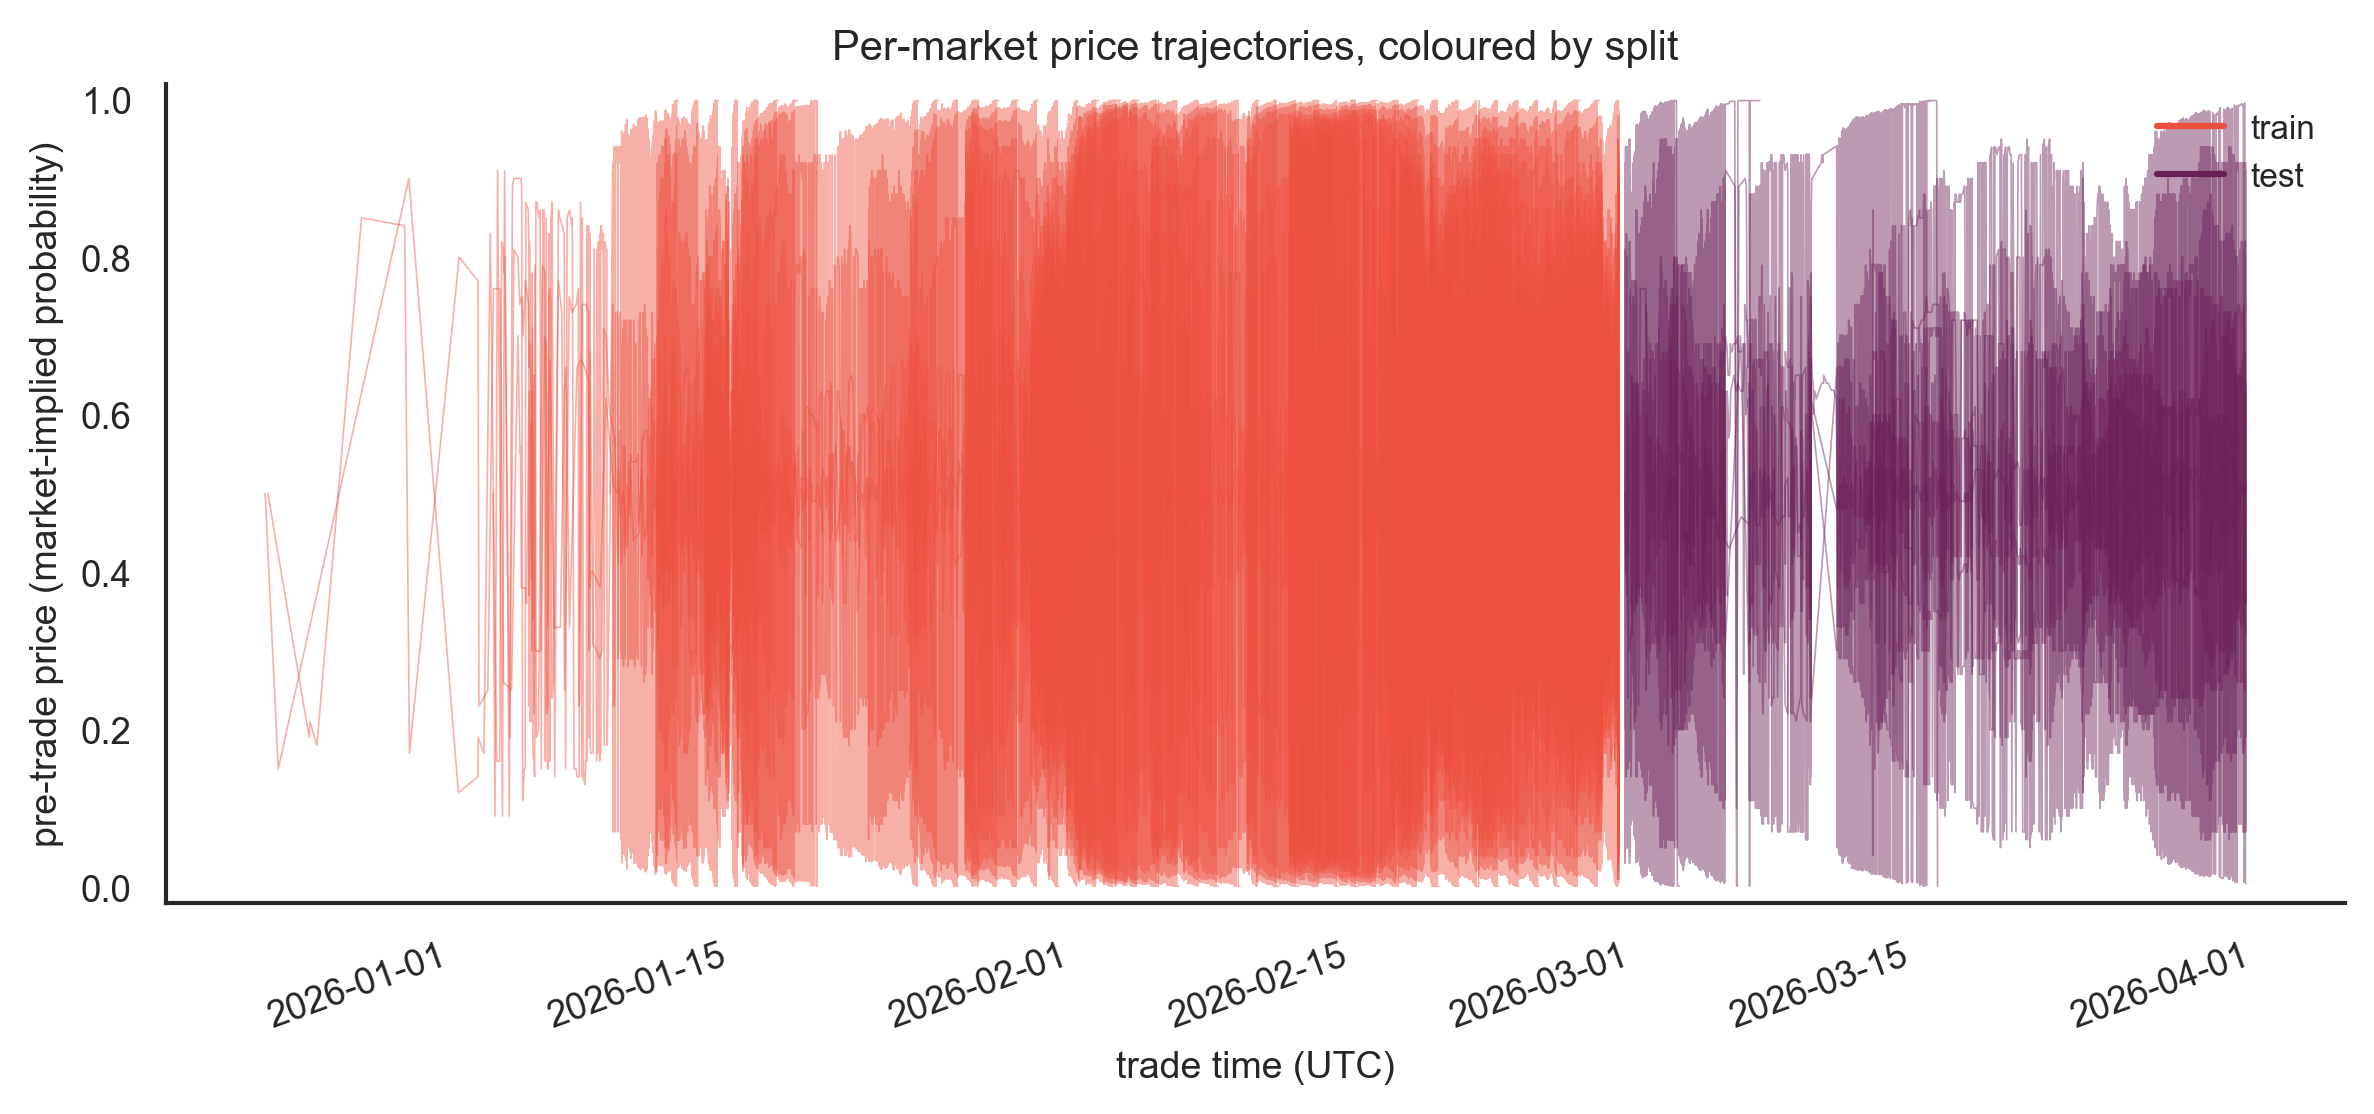
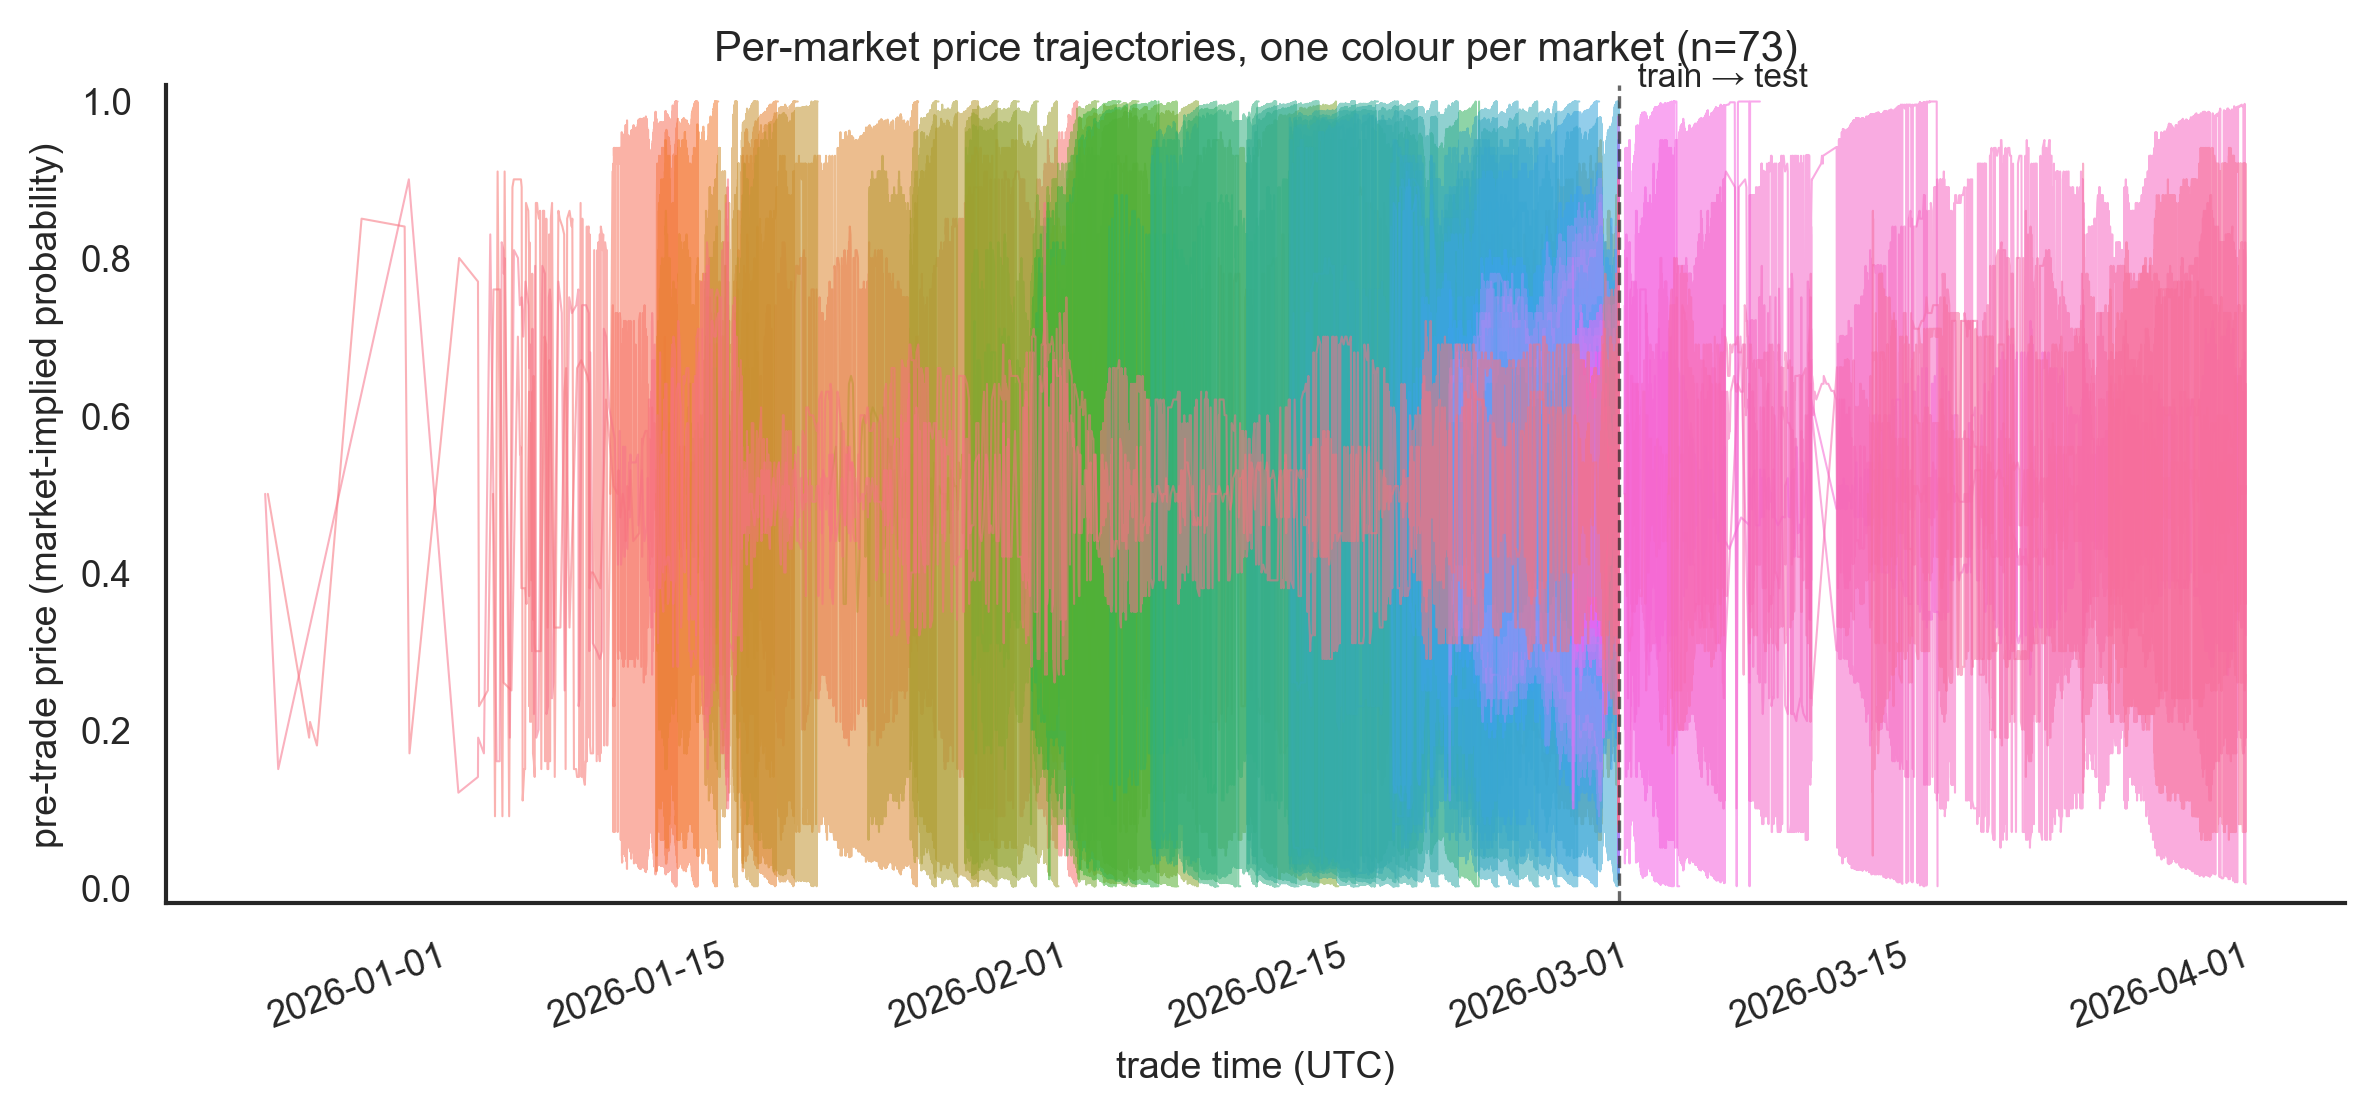
commit

diff --git a/ML/report/scripts/eda.py b/ML/report/scripts/eda.py
@@ -99,34 +99,32 @@ def load_joined() -> pd.DataFrame:
     # cohort parquets in `data/archive/alex/` still carry it (column `taker`).
     # Lift it over by row order: the consolidated splits preserve the same
     # ordering as the raw archives, with row counts matching exactly.
-    train_taker = pd.read_parquet(
-        DATA_DIR / "archive" / "alex" / "train.parquet", columns=["taker"]
+    cols = ["taker", "usd_amount"]
+    train_raw = pd.read_parquet(
+        DATA_DIR / "archive" / "alex" / "train.parquet", columns=cols
     )
-    test_taker = pd.read_parquet(
-        DATA_DIR / "archive" / "alex" / "test.parquet", columns=["taker"]
+    test_raw = pd.read_parquet(
+        DATA_DIR / "archive" / "alex" / "test.parquet", columns=cols
     )
     n_train = (df[SPLIT] == "train").sum()
     n_test = (df[SPLIT] == "test").sum()
-    if len(train_taker) == n_train and len(test_taker) == n_test:
-        taker_col = pd.concat(
-            [train_taker["taker"].reset_index(drop=True),
-             test_taker["taker"].reset_index(drop=True)],
+    if len(train_raw) == n_train and len(test_raw) == n_test:
+        lifted = pd.concat(
+            [train_raw.reset_index(drop=True), test_raw.reset_index(drop=True)],
             ignore_index=True,
         )
-        # Sort df so train rows precede test rows, then attach taker.
-        df = df.sort_values(SPLIT, kind="stable").reset_index(drop=True)
-        # train comes after test alphabetically — flip the order to match
-        # the (train, test) lift-over above.
+        # Sort df so train rows precede test rows, then attach lifted columns.
         df = pd.concat(
             [df[df[SPLIT] == "train"].reset_index(drop=True),
              df[df[SPLIT] == "test"].reset_index(drop=True)],
             ignore_index=True,
         )
-        df["taker"] = taker_col.values
-        print(f"attached taker from archive: {df['taker'].nunique():,} unique wallets")
+        df["taker"] = lifted["taker"].values
+        df["usd_amount"] = lifted["usd_amount"].values
+        print(f"attached taker + usd_amount from archive: {df['taker'].nunique():,} unique wallets")
     else:
-        print(f"WARN: row counts mismatch ({len(train_taker)} vs {n_train}, "
-              f"{len(test_taker)} vs {n_test}); taker not attached")
+        print(f"WARN: row counts mismatch ({len(train_raw)} vs {n_train}, "
+              f"{len(test_raw)} vs {n_test}); taker/usd_amount not attached")
     print(f"loaded joined dataset: {len(df):,} rows × {len(df.columns)} cols")
     return df
 
@@ -1014,24 +1012,36 @@ def panel_price_trajectories(df: pd.DataFrame) -> None:
     times = pd.to_datetime(df["timestamp"], unit="s", utc=True)
     df2 = df.assign(_t=times)[["_t", MARKET, SPLIT, "pre_trade_price"]].dropna()
 
+    market_order = (
+        df2.groupby(MARKET)["_t"].min().sort_values().index.tolist()
+    )
+    palette = sns.color_palette("husl", len(market_order))
+    market_colour = dict(zip(market_order, palette))
+
+    train_max = df2.loc[df2[SPLIT] == "train", "_t"].max()
+
     fig, ax = plt.subplots(figsize=(FIG_W_WIDE, 3.6), constrained_layout=True)
-    for split_name, colour in (("train", COL_TRAIN), ("test", COL_TEST)):
-        for mid, sub in df2[df2[SPLIT] == split_name].groupby(MARKET):
-            sub = sub.sort_values("_t")
-            if len(sub) > 1500:
-                sub = sub.iloc[:: max(1, len(sub) // 1500)]
-            ax.plot(
-                sub["_t"], sub["pre_trade_price"],
-                lw=0.4, alpha=0.45, color=colour,
-            )
-    # Two dummy lines for the legend so each split shows once.
-    ax.plot([], [], color=COL_TRAIN, lw=1.5, label="train")
-    ax.plot([], [], color=COL_TEST, lw=1.5, label="test")
+    for mid, sub in df2.groupby(MARKET):
+        sub = sub.sort_values("_t")
+        if len(sub) > 1500:
+            sub = sub.iloc[:: max(1, len(sub) // 1500)]
+        ax.plot(
+            sub["_t"], sub["pre_trade_price"],
+            lw=0.5, alpha=0.55, color=market_colour[mid],
+        )
+    if pd.notna(train_max):
+        ax.axvline(train_max, color=COL_DARK, ls="--", lw=0.8, alpha=0.7)
+        ax.text(
+            train_max, 1.01, "  train → test",
+            ha="left", va="bottom", fontsize=8, color=COL_DARK,
+        )
     ax.set_xlabel("trade time (UTC)")
     ax.set_ylabel("pre-trade price (market-implied probability)")
-    ax.set_title("Per-market price trajectories, coloured by split")
+    ax.set_title(
+        f"Per-market price trajectories, one colour per market "
+        f"(n={len(market_order)})"
+    )
     ax.set_ylim(-0.02, 1.02)
-    ax.legend(frameon=False, loc="upper right")
     ax.tick_params(axis="x", rotation=20)
     for lbl in ax.get_xticklabels():
         lbl.set_ha("right")
@@ -1089,6 +1099,105 @@ def panel_event_timing(df: pd.DataFrame) -> None:
     print(f"saved {csv_path.name}")
 
 
+# ---------------------------------------------------------------------------
+# 19b. Event-zoom panels: ±48h around strike and ceasefire, hourly trade
+# counts. Surfaces the intraday reaction that the daily bars in panel 19
+# smooth away.
+# ---------------------------------------------------------------------------
+STRIKE = pd.Timestamp("2026-02-28T06:35:00", tz="UTC")
+CEASEFIRE = pd.Timestamp("2026-04-07T23:59:00", tz="UTC")
+
+
+def panel_event_zoom(df: pd.DataFrame) -> None:
+    if "timestamp" not in df.columns:
+        print("skipping event-zoom panel, timestamp missing")
+        return
+    times = pd.to_datetime(df["timestamp"], unit="s", utc=True)
+    df2 = df.assign(_t=times)
+
+    # Only draw events that fall inside the data range. Ceasefire (7 Apr)
+    # is past the dataset's end (31 Mar) so it produces an empty axis.
+    t_min, t_max = df2["_t"].min(), df2["_t"].max()
+    events = [
+        ("strike (28 Feb 06:35 UTC)", STRIKE),
+        ("ceasefire (7 Apr 23:59 UTC)", CEASEFIRE),
+    ]
+    events = [(lbl, t) for lbl, t in events if t_min <= t <= t_max]
+    if not events:
+        print("skipping event-zoom panel, no events inside data range")
+        return
+
+    fig, axes = plt.subplots(
+        1, len(events), figsize=(FIG_W_WIDE / 2 * len(events) + 0.2, 3.4),
+        constrained_layout=True, squeeze=False,
+    )
+    for ax, (label, event_t) in zip(axes[0], events):
+        window_start = event_t - pd.Timedelta(hours=48)
+        window_end = event_t + pd.Timedelta(hours=48)
+        sub = df2[(df2["_t"] >= window_start) & (df2["_t"] <= window_end)]
+        hourly = (
+            sub.set_index("_t")
+            .assign(_n=1)["_n"]
+            .resample("1h")
+            .sum()
+        )
+        ax.bar(hourly.index, hourly.values, width=1 / 24,
+               color=COL_TRAIN, alpha=0.85, edgecolor="none")
+        ax.axvline(event_t, color=COL_DARK, ls="--", lw=0.9)
+        ax.set_xlim(window_start, window_end)
+        ax.set_xlabel("trade time (UTC)")
+        ax.set_ylabel("trades per hour")
+        ax.set_title(label)
+        ax.tick_params(axis="x", rotation=20)
+        for lbl in ax.get_xticklabels():
+            lbl.set_ha("right")
+        clean_ax(ax)
+
+    fig.suptitle("Hourly trade counts in a ±48h window around each event", y=1.04)
+    save_fig(fig, OUT_DIR / "19b_event_zoom.png")
+
+
+# ---------------------------------------------------------------------------
+# 19c. Calendar-time $-volume bars. Same axis as panel 19, but `usd_amount`
+# summed instead of trade counts: shows whether reaction is real $-flow or
+# just a count of small trades.
+# ---------------------------------------------------------------------------
+def panel_event_volume(df: pd.DataFrame) -> None:
+    if "timestamp" not in df.columns or "usd_amount" not in df.columns:
+        print("skipping event-volume panel, timestamp or usd_amount missing")
+        return
+    times = pd.to_datetime(df["timestamp"], unit="s", utc=True)
+    df2 = df.assign(_t=times)
+    daily = (
+        df2.set_index("_t")["usd_amount"]
+        .resample("1D")
+        .sum()
+        .rename("usd_total")
+        .reset_index()
+    )
+
+    t_min, t_max = df2["_t"].min(), df2["_t"].max()
+    fig, ax = plt.subplots(figsize=(FIG_W_WIDE, 3.4), constrained_layout=True)
+    ax.bar(daily["_t"], daily["usd_total"] / 1e6,
+           width=0.9, color=COL_TRAIN, alpha=0.85, edgecolor="none")
+    if t_min <= STRIKE <= t_max:
+        ax.axvline(STRIKE, color=COL_DARK, ls="--", lw=0.9)
+        ax.text(STRIKE, ax.get_ylim()[1] * 0.95, "  strike (28 Feb)",
+                ha="left", va="top", fontsize=8, color=COL_DARK)
+    if t_min <= CEASEFIRE <= t_max:
+        ax.axvline(CEASEFIRE, color=COL_DARK, ls="--", lw=0.9)
+        ax.text(CEASEFIRE, ax.get_ylim()[1] * 0.95, "  ceasefire (7 Apr)",
+                ha="right", va="top", fontsize=8, color=COL_DARK)
+    ax.set_xlabel("trade date (UTC)")
+    ax.set_ylabel(r"daily \$-volume (\$M)")
+    ax.set_title(r"Daily \$-volume over calendar time, with key events")
+    ax.tick_params(axis="x", rotation=20)
+    for lbl in ax.get_xticklabels():
+        lbl.set_ha("right")
+    clean_ax(ax)
+    save_fig(fig, OUT_DIR / "19c_event_volume.png")
+
+
 def write_index(out_dir: Path) -> None:
     """Cheat-sheet that maps each generated panel to what it shows."""
     items = [
@@ -1123,9 +1232,11 @@ def write_index(out_dir: Path) -> None:
         ("16_temporal_drift.png", "Daily bet_correct base rate with 7-day rolling mean, per split."),
         ("17_pca_wallets.png", "Wallet behavioural archetypes via 2-D PCA on per-wallet aggregates, coloured by hit rate."),
         ("17_pca_wallets.txt", "PC1/PC2 explained variance + loadings for the panel-17 PCA."),
-        ("18_price_trajectories.png", "Per-market `pre_trade_price` over calendar time, coloured by split."),
+        ("18_price_trajectories.png", "Per-market `pre_trade_price` over calendar time, one colour per market, with a dashed line at the train→test boundary."),
         ("19_event_timing.png", "Trades per day with the strike and ceasefire announcement marked. Cohort design visible in calendar time."),
         ("19_event_timing_table.csv", "Trades per day per split. Report-ready CSV."),
+        ("19b_event_zoom.png", "Hourly trade counts in a ±48h window around the strike and ceasefire announcements."),
+        ("19c_event_volume.png", "Daily $-volume (`usd_amount`) over calendar time, with the strike and ceasefire marked."),
         ("summary.txt", "Plain-text summary of dataset shape, base rates, missingness."),
     ]
     lines = ["# EDA index, wallet-joined Alex cohort", ""]
@@ -1187,6 +1298,8 @@ def main() -> None:
     panel_pca_wallets(df)
     panel_price_trajectories(df)
     panel_event_timing(df)
+    panel_event_zoom(df)
+    panel_event_volume(df)
     write_summary(df, nulls, cov)
     write_index(OUT_DIR)
     print(f"\nEDA done, outputs in {OUT_DIR.relative_to(ROOT)}")
